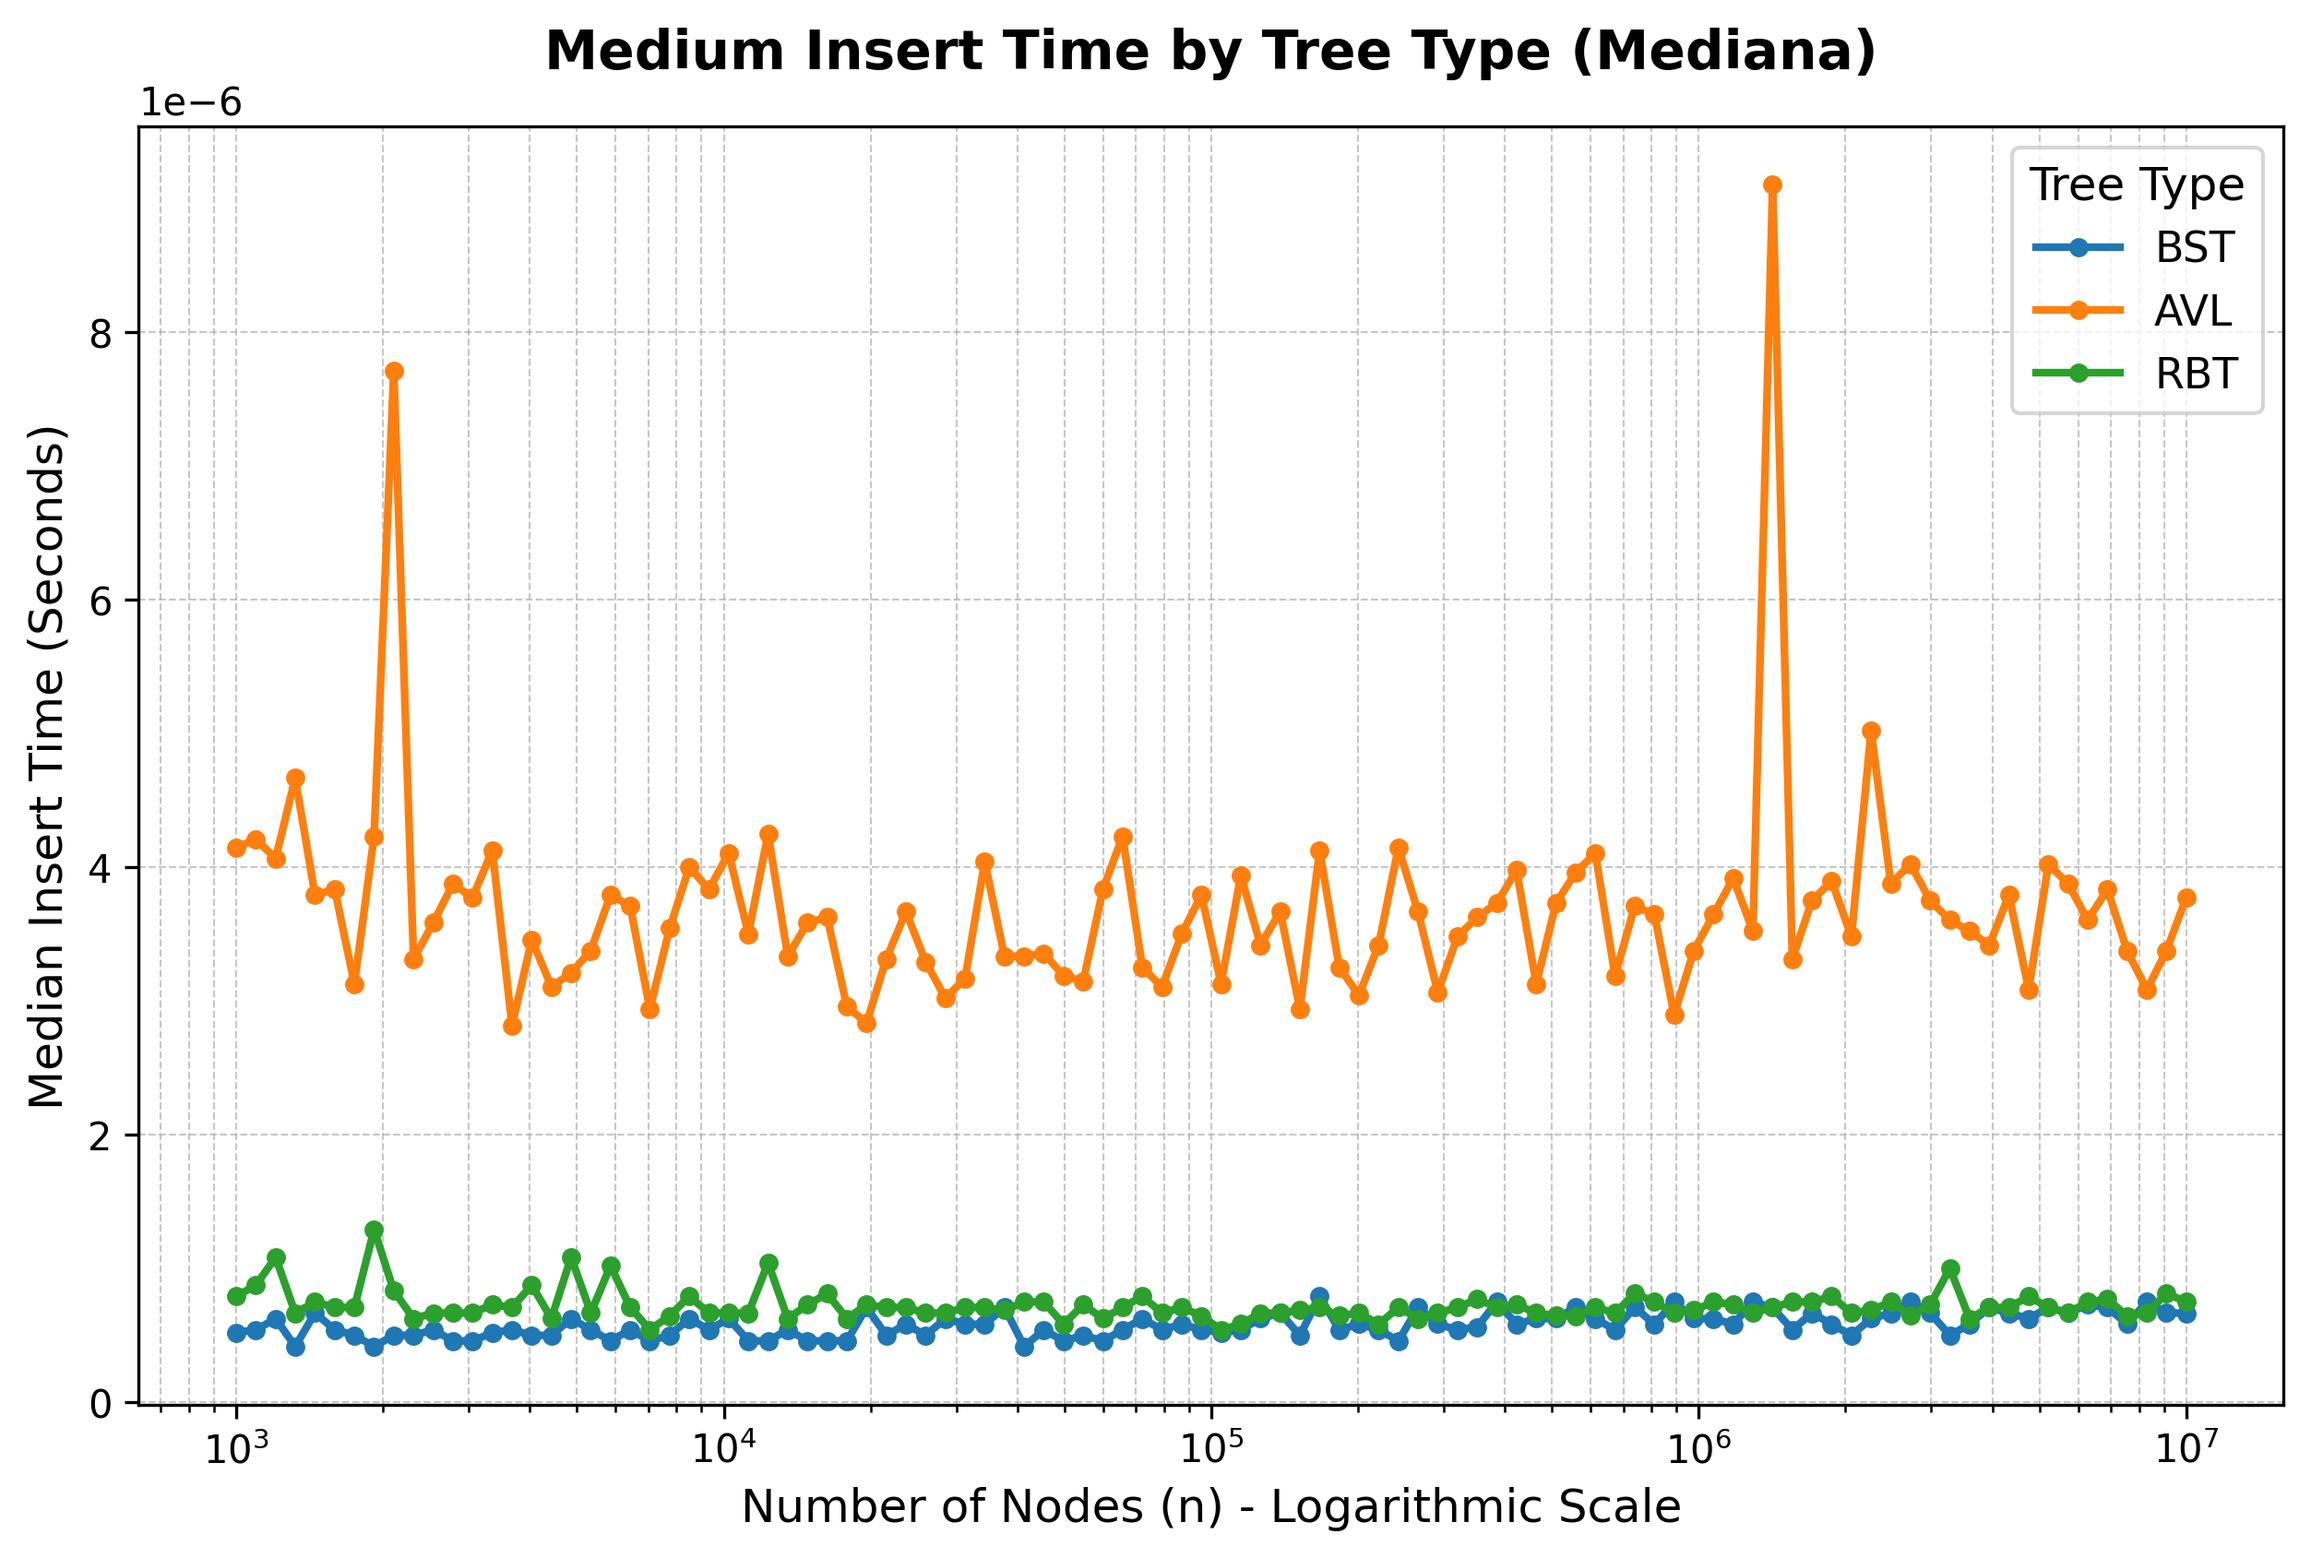
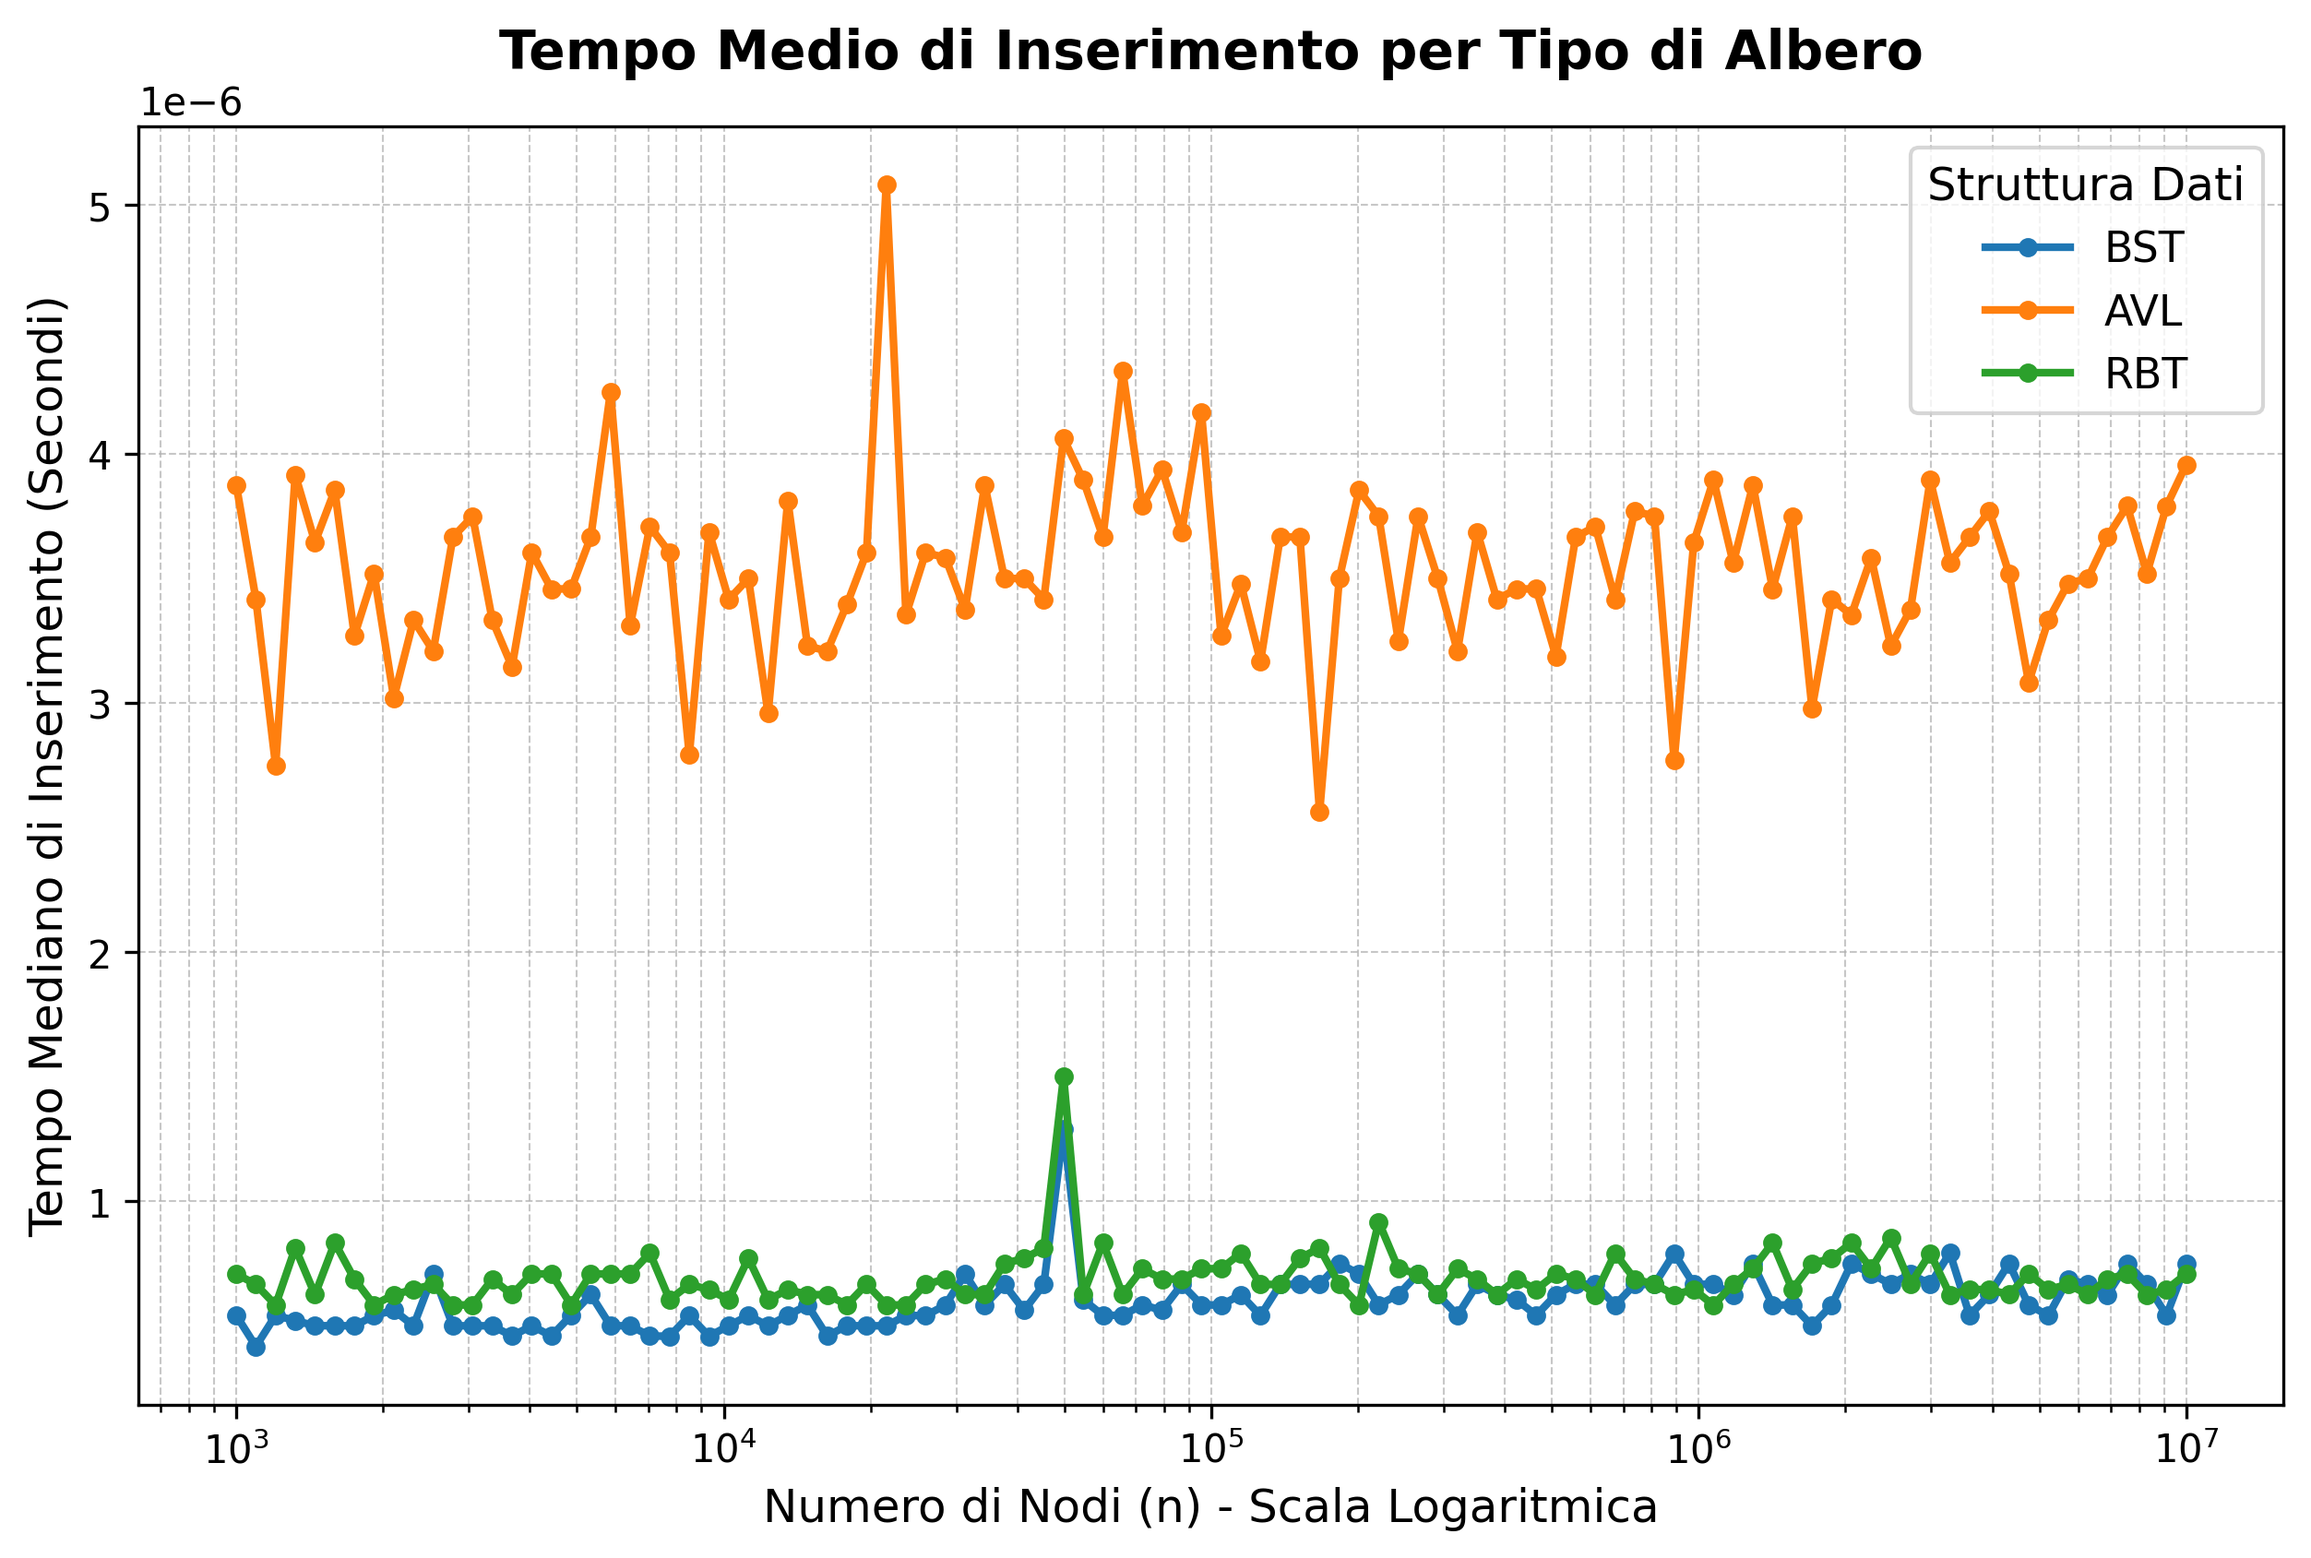
update

diff --git a/main.py b/main.py
@@ -5,7 +5,6 @@ from trees.RBT import RBT
 from utils.RandomKeysHandler import RandomKeyHandler
 from utils.MeasureTool import measure_insertion_time
 from utils.DataStorage import DataStorage
-import csv
 
 
 def main():
